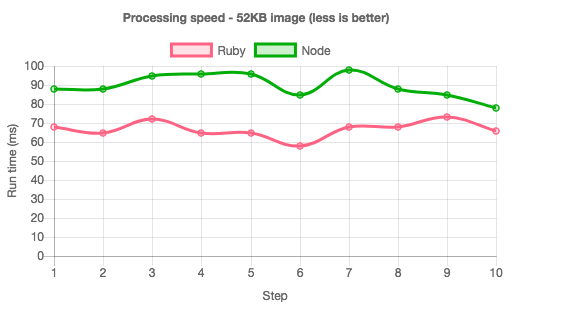
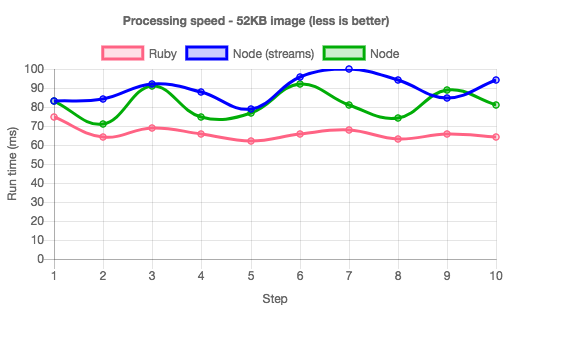
update small benchmark

diff --git a/small-benchmark.html b/small-benchmark.html
@@ -15,14 +15,21 @@
       labels: ["1", "2", "3", "4", "5", "6", "7", "8", "9", "10"],
       datasets: [{
         label: 'Ruby',
-        data: [68, 65, 72, 65, 65, 58, 68, 68, 73, 66],
+        data: [75, 64, 69, 66, 62, 66, 68, 63, 66, 64],
         backgroundColor: 'rgba(255, 99, 132, 0.2)',
         fill: false,
         borderColor: 'rgba(255,99,132,1)',
       },
       {
+        label: 'Node (streams)',
+        data: [83, 84, 92, 88, 79, 96, 100, 94, 85, 94],
+        backgroundColor: 'rgba(0,0,255,0.2)',
+        fill: false,
+        borderColor: 'rgba(0,0,255,1)',
+      },
+      {
         label: 'Node',
-        data: [88, 88, 95, 96, 96, 85, 98, 88, 85, 78],
+        data: [83, 71, 91, 75, 77, 92, 81, 74, 89, 81],
         backgroundColor: 'rgba(1, 173, 1, 0.2)',
         fill: false,
         borderColor: 'rgba(1, 173, 7, 1)',
